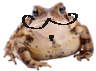
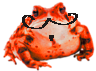
Listo??

diff --git a/src/scenes/play.js b/src/scenes/play.js
@@ -3,16 +3,20 @@ import ButtonFont from "../js/buttonfont.js";
 //Variables de la escena
 var player1;
 var player2;
+var player3;
 var JTurno;
 var proxcas;
 var proxcasjg1;
 var proxcasjg2;
+var proxcasjg3;
 //var accas = 0;
 var CasRojas;
 var CasVerdes;
 var CasAmar;
-var score;
-var scoreText;
+var scorejg1;
+var scorejg2;
+var scorejg3;
+var scoretext;
 var XD;
 var sonid4;
 var gameOver;
@@ -53,8 +57,11 @@ export class Play extends Phaser.Scene {
     player1 = this.physics.add.image(spawnPoint.x, spawnPoint.y, "sapo");
     spawnPoint = tablero.findObject("Players", (obj) => obj.name === "sapo2");
     player2 = this.physics.add.image(spawnPoint.x, spawnPoint.y, "sapo2");
+    spawnPoint = tablero.findObject("Players", (obj) => obj.name === "sapo3");
+    player3 = this.physics.add.image(spawnPoint.x, spawnPoint.y, "sapo3");
     player1.setCollideWorldBounds(true);
     player2.setCollideWorldBounds(true);
+    player3.setCollideWorldBounds(true);
     
     //Parte físicas de casillas
     CasRojas = this.physics.add.group();
@@ -95,8 +102,10 @@ export class Play extends Phaser.Scene {
     });
 
     //Textou
-    score = 0;
-    scoreText = this.add.text(this.cameras.main.centerX*1.80, this.cameras.main.centerY, "🦟: " + score, {
+    scorejg1 = 0;
+    scorejg2 = 0;
+    scorejg3 = 0;
+    scoretext = this.add.text(this.cameras.main.centerX*1.80, this.cameras.main.centerY, "🦟: " + scorejg1, {
       fontSize: "32px",
       fill: "#fff",
       stroke: '#000',
@@ -106,6 +115,7 @@ export class Play extends Phaser.Scene {
     //Agregamos collider con el tablero
     this.physics.add.collider(player1, worldLayer);
     this.physics.add.collider(player2, worldLayer);
+    this.physics.add.collider(player3, worldLayer);
     this.physics.add.collider(CasRojas, worldLayer);
     this.physics.add.collider(CasVerdes, worldLayer);
     this.physics.add.collider(CasAmar, worldLayer);
@@ -117,6 +127,9 @@ export class Play extends Phaser.Scene {
     this.physics.add.overlap(player2, CasRojas, this.roja, null, this);
     this.physics.add.overlap(player2, CasVerdes, this.verde, null, this);
     this.physics.add.overlap(player2, CasAmar, this.amarilla, null, this);
+    this.physics.add.overlap(player3, CasRojas, this.roja, null, this);
+    this.physics.add.overlap(player3, CasVerdes, this.verde, null, this);
+    this.physics.add.overlap(player3, CasAmar, this.amarilla, null, this);
     
 
 
@@ -124,7 +137,8 @@ export class Play extends Phaser.Scene {
     proxcas = 0;
     proxcasjg1 = 0;
     proxcasjg2 = 0;
-    new ButtonFont( //Lanzar Dado
+    proxcasjg3 = 3;
+    const BotonDado = new ButtonFont( //Lanzar Dado
       this.cameras.main.centerX,
       this.cameras.main.centerY + this.cameras.main.centerY / 1.2,
       "Lanzar Dado",
@@ -138,25 +152,32 @@ export class Play extends Phaser.Scene {
             this.JugadorTurno("Jugador 1");
             proxcasjg1 += randomNumber;
             proxcas = proxcasjg1;
-          } else {
+          } else if (JTurno === player2) {
             this.JugadorTurno("Jugador 2");
             proxcasjg2 += randomNumber;
             proxcas = proxcasjg2;
+          } else {
+            this.JugadorTurno("Jugador 3");
+            proxcasjg3 += randomNumber;
+            proxcas = proxcasjg3;
           }
           
           if (proxcas>=40) {
             var casPoint = tablero.findObject("Objetos", (obj) => obj.type === "40");
             //player1.setPosition(casPoint.x+1, casPoint.y+1);
             JTurno.setPosition(casPoint.x+1, casPoint.y+1)
+            BotonDado.disable = true;
             if (JTurno === player1) {
               this.Dado("GANASTE "+ "Jugador 1");;
-            } else {
+            } else if (JTurno === player2){
               this.Dado("GANASTE "+ "Jugador 2");
+            } else {
+              this.Dado("GANASTE "+ "Jugador 3")
             }
             this.Dado2("40");
             gameOver = true;
           } else {
-            this.Dado2("  ")
+            this.Dado2("  ")
             this.Dado2(proxcas);
             var casPoint = tablero.findObject("Objetos", (obj) => obj.type == (proxcas));
             //player1.setPosition(casPoint.x+1, casPoint.y+1);
@@ -182,7 +203,7 @@ export class Play extends Phaser.Scene {
       this,
       () => {
         // Instrucción para pasar a la escena ayuda
-        this.scene.switch("Ayuda"), { score: score };
+        this.scene.switch("Ayuda"), { scorejg1: scorejg1 };
       });
 
       sonid4 = this.sound.add('dado');
@@ -198,33 +219,64 @@ export class Play extends Phaser.Scene {
     //Funciones
     roja(){
       if (XD == 1) {
-        score += 10;
-        scoreText.setText("🦟: " + score);
-        XD +=1;
+        if (JTurno === player1) {
+          scorejg1 += 10;
+          scoretext.setText("🦟: " + scorejg1);
+          XD +=1;
+        } else if (JTurno === player2) {
+          scorejg2 += 10;
+          scoretext.setText("🦟: " + scorejg2);
+          XD +=1;
+        } else if (JTurno === player3){
+          scorejg3 += 10;
+          scoretext.setText("🦟: " + scorejg3);
+          XD +=1;
+        }
       }
     }
 
     verde(){
       if (XD == 1) {
-        score += 5;
-        scoreText.setText("🦟: " + score);
-        XD +=1;
+        if (JTurno === player1) {
+          scorejg1 += 5;
+          scoretext.setText("🦟: " + scorejg1);
+          XD +=1;
+        } else if (JTurno === player2) {
+          scorejg2 += 5;
+          scoretext.setText("🦟: " + scorejg2);
+          XD +=1;
+        } else if (JTurno === player3){
+          scorejg3 += 5;
+          scoretext.setText("🦟: " + scorejg3);
+          XD +=1;
+        }
       }
     }
 
     amarilla(){
       if (XD == 1) {
-        score -= 10;
-        scoreText.setText("🦟: " + score);
-        XD +=1;
+        if (JTurno === player1) {
+          scorejg1 -= 10;
+          scoretext.setText("🦟: " + scorejg1);
+          XD +=1;
+        } else if (JTurno === player2) {
+          scorejg2 -= 10;
+          scoretext.setText("🦟: " + scorejg2);
+          XD +=1;
+        } else if (JTurno === player3){
+          scorejg3 -= 10;
+          scoretext.setText("🦟: " + scorejg3);
+          XD +=1;
+        }
       }
     }
 
     turno(){
       if (JTurno === player1) {
         JTurno = player2;
-        
-      } else {
+      } else if (JTurno === player2) {
+        JTurno = player3;
+      } else if (JTurno === player3){
         JTurno = player1;
       }
     }

diff --git a/src/scenes/preloads.js b/src/scenes/preloads.js
@@ -14,6 +14,7 @@ export class Preloads extends Phaser.Scene {
     //this.load.image('custom_bg','public/assets/images/custom_bg.png');
     this.load.image('sapo','public/assets/images/sapojg1.png');
     this.load.image('sapo2','public/assets/images/sapojg2.png');
+    this.load.image('sapo3','public/assets/images/sapojg3.png');
     this.load.image('vacio','public/assets/images/casillerovacio.png') //Vacio tuki
     this.load.image('rojas','public/assets/images/casillerorojo.png')
     this.load.image('verdes','public/assets/images/casilleroverde.png')
